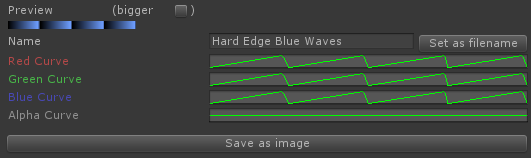
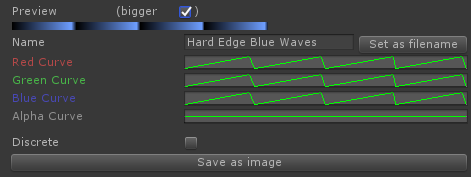
Added discretization option with three different methods (left, right, center value). Added undo to ColorBandEditor. Updated screenshots.

diff --git a/ColorBand/ColorBand.cs b/ColorBand/ColorBand.cs
@@ -13,6 +13,11 @@ public class ColorBand : ScriptableObject {
 	public Texture2D previewTexture;
     public bool biggerPreview = false;
 
+    public bool discrete = false;
+    public int discreteSteps = 16;
+    public enum DISCRETE_METHOD { LEFT_VALUE, RIGHT_VALUE, CENTER_VALUE };
+    public DISCRETE_METHOD discreteMethod = DISCRETE_METHOD.LEFT_VALUE;
+
 	int Wt = 128, Wt_big = 256;
 	int Ht = 8, Ht_big = 8;
 
@@ -64,6 +69,16 @@ public class ColorBand : ScriptableObject {
 		for(int i=0; i<W; i++)
 		{
 			float t = Mathf.Clamp01(((float)i)/((float)W));
+            if(discrete)
+            {
+                if (discreteMethod == DISCRETE_METHOD.LEFT_VALUE)
+                    t = Mathf.Floor(t * discreteSteps) / discreteSteps;
+                else if (discreteMethod == DISCRETE_METHOD.RIGHT_VALUE)
+                    t = Mathf.Ceil(t * discreteSteps) / discreteSteps;
+                else if (discreteMethod == DISCRETE_METHOD.CENTER_VALUE)
+                    t = 0.5f * (Mathf.Floor(t * discreteSteps) / discreteSteps + Mathf.Ceil(t * discreteSteps) / discreteSteps);
+            }
+
 			Color c = new Color(
 				RCurve.Evaluate( t ),
 				GCurve.Evaluate( t ),
@@ -112,7 +127,22 @@ public class ColorBand : ScriptableObject {
 
 	public Color Evaluate(float time01)
 	{
-		return new Color(RCurve.Evaluate(time01), GCurve.Evaluate(time01), BCurve.Evaluate(time01));
+        if(!discrete)
+        {
+            return new Color(RCurve.Evaluate(time01), GCurve.Evaluate(time01), BCurve.Evaluate(time01));
+        }
+        else
+        {
+            float t = -1f;
+            if (discreteMethod == DISCRETE_METHOD.LEFT_VALUE)
+                t = Mathf.Floor(time01 * discreteSteps) / discreteSteps;
+            else if (discreteMethod == DISCRETE_METHOD.RIGHT_VALUE)
+                t = Mathf.Ceil(time01 * discreteSteps) / discreteSteps;
+            else if (discreteMethod == DISCRETE_METHOD.CENTER_VALUE)
+                t = 0.5f * (Mathf.Floor(time01 * discreteSteps) / discreteSteps + Mathf.Ceil(time01 * discreteSteps) / discreteSteps);
+            return new Color(RCurve.Evaluate(t), GCurve.Evaluate(t), BCurve.Evaluate(t));
+        }
+
 	}
 
 }

diff --git a/ColorBand/Editor/ColorBandEditor.cs b/ColorBand/Editor/ColorBandEditor.cs
@@ -10,6 +10,8 @@ public class ColorBandEditor : Editor {
 		// get the target class
 		ColorBand _target = (ColorBand)target;
 
+        Undo.RecordObject(_target, "Color Band Change");
+
         bool previousBiggerPreviewToggle = _target.biggerPreview;
 
 		// the preview texture leaks at non deterministic times in the editor so we have to watch it
@@ -57,6 +59,19 @@ public class ColorBandEditor : Editor {
 
 		EditorGUILayout.Space();
 
+
+        EditorGUILayout.BeginHorizontal();
+        _target.discrete = EditorGUILayout.Toggle("Discrete", _target.discrete);
+        if (_target.discrete)
+        {
+            _target.discreteSteps = EditorGUILayout.IntSlider("Steps", _target.discreteSteps, 2, 256);
+        }
+        EditorGUILayout.EndHorizontal();
+        if(_target.discrete)
+        {
+            _target.discreteMethod = (ColorBand.DISCRETE_METHOD)EditorGUILayout.EnumPopup("Discretization Method", _target.discreteMethod);
+        }
+
 		EditorGUILayout.BeginHorizontal();
 		if(GUILayout.Button("Save as image"))
 		{
@@ -88,7 +103,7 @@ public class ColorBandEditor : Editor {
 		int i=0;
 		while(System.IO.File.Exists("Assets/" + newfname + ".asset") && i<1000)
 		{
-			newfname = new System.Text.StringBuilder(newfnameRoot).Append(" ").Append(i.ToString("D" + 3)).ToString();  
+			newfname = new System.Text.StringBuilder(newfnameRoot).Append(" ").Append(i.ToString("D" + 3)).ToString();
 			i++;
 		}
 		newCB.name = newfname;
